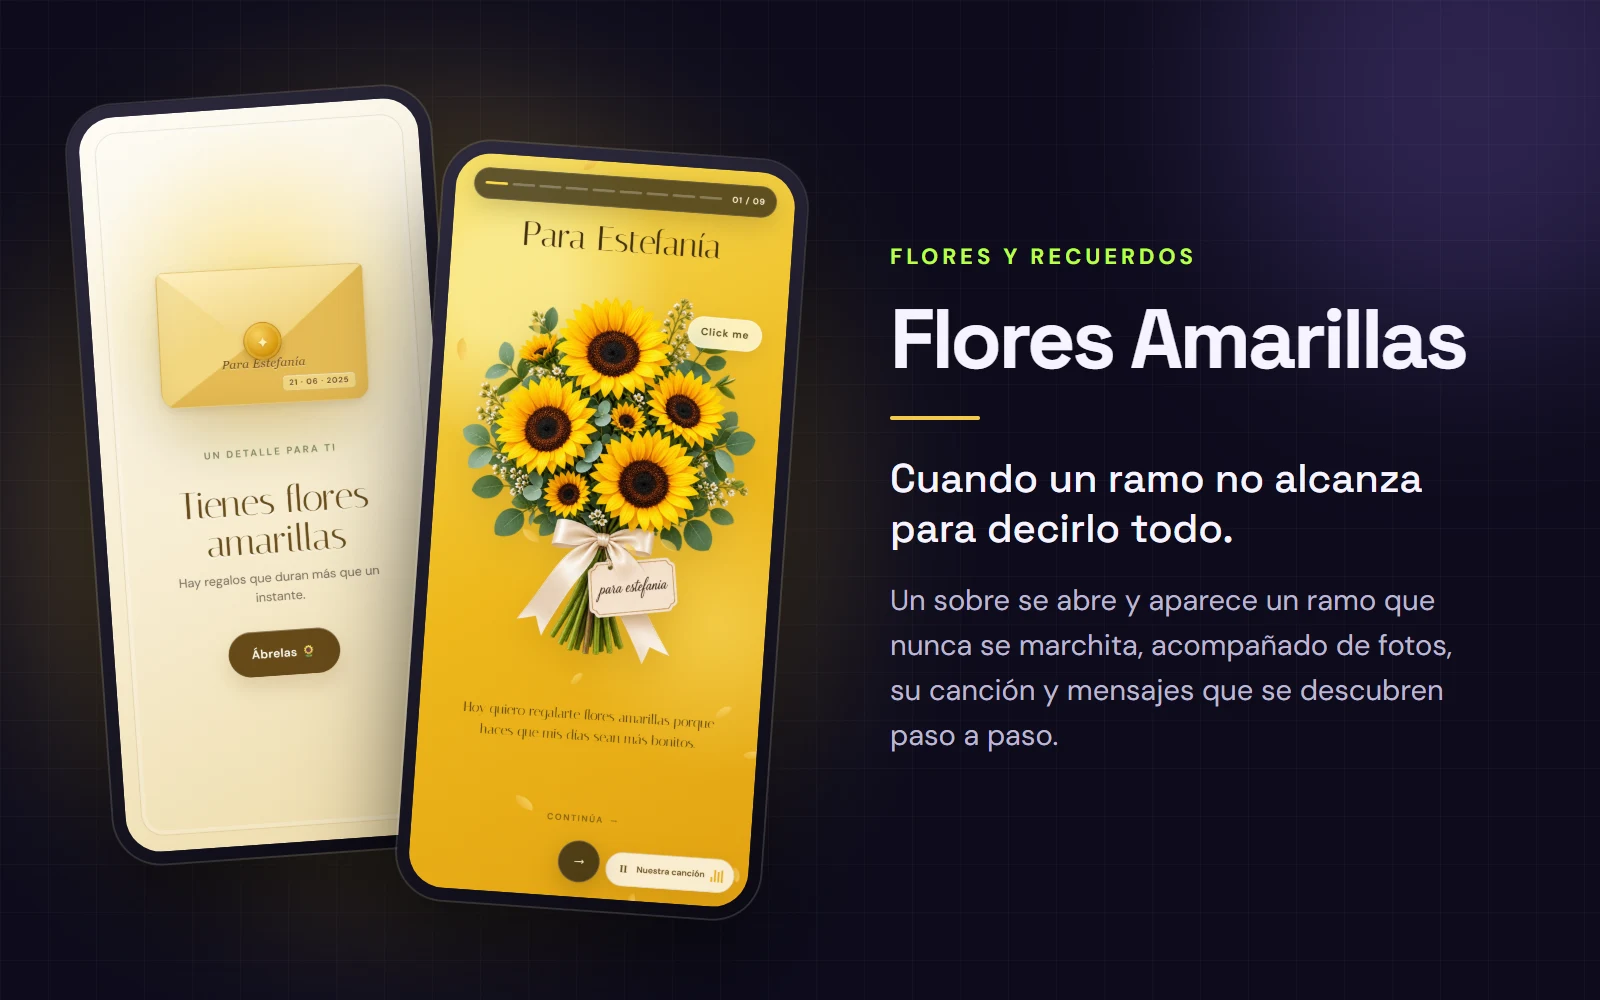
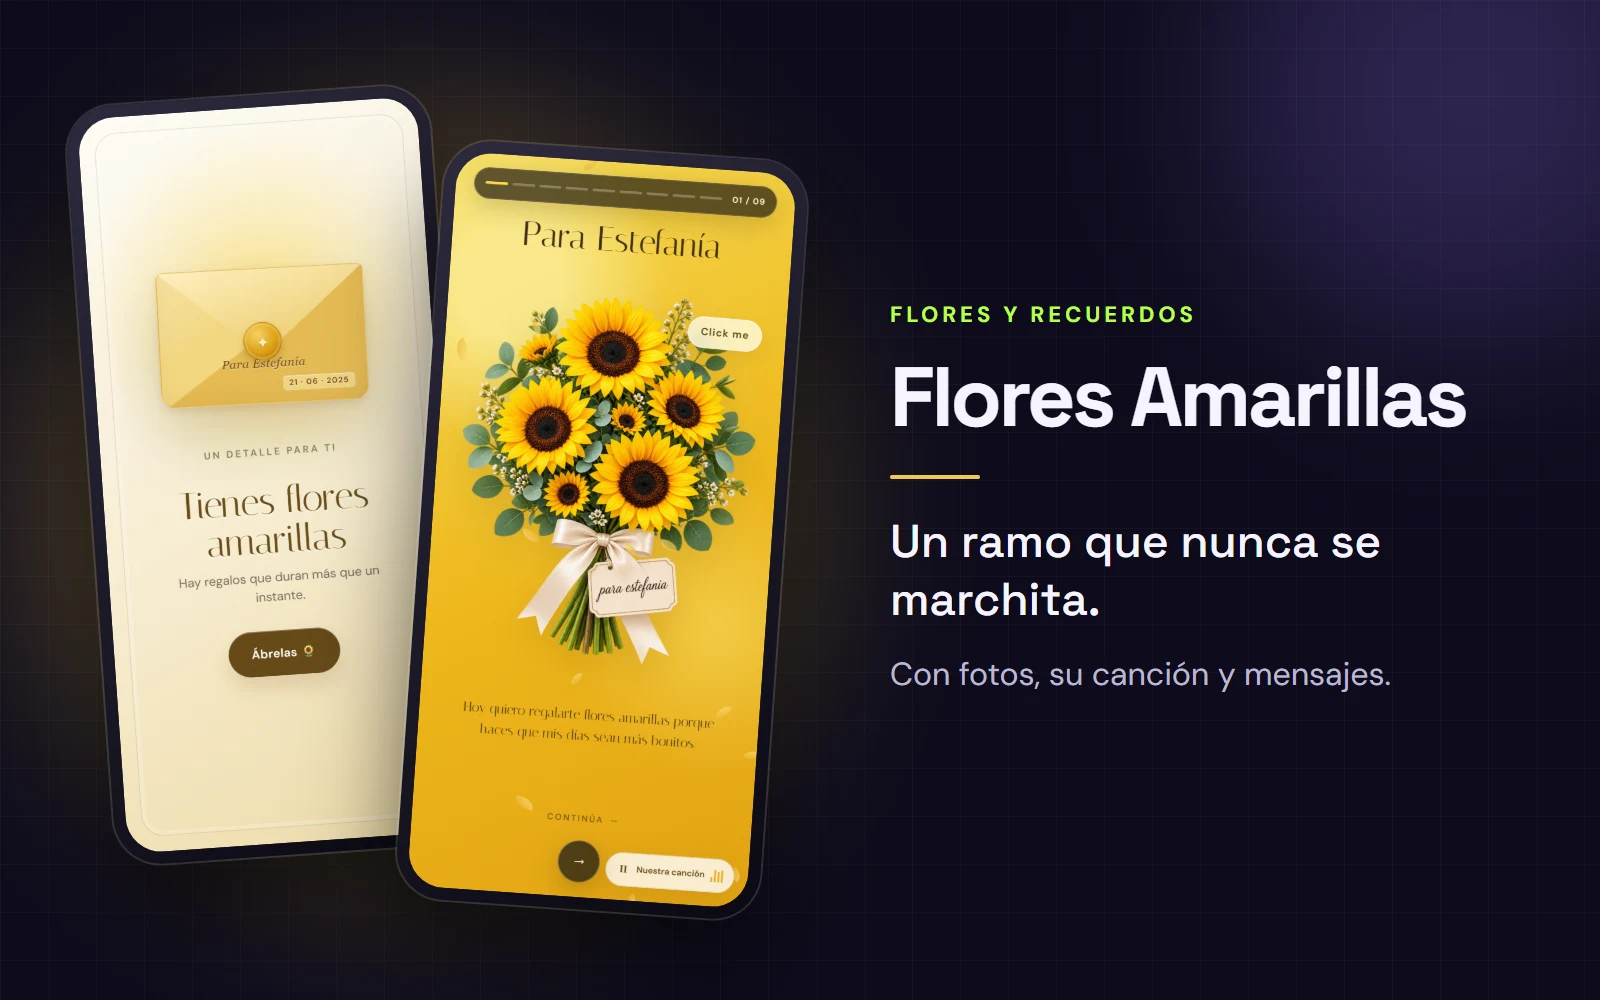
Shorten the text in each experience showcase image

Changed region(s): [[0.5312, 0.248, 0.9375, 0.434], [0.5312, 0.589, 0.9062, 0.744], [0.5312, 0.465, 0.9062, 0.558]]

diff --git a/experiencias-digitales.html b/experiencias-digitales.html
@@ -36,8 +36,8 @@
           <h3 class="experience-feature-title" id="project-flores-amarillas">Flores Amarillas</h3>
           <a class="experience-feature-shot" href="flores-amarillas-estefania/" target="_blank" rel="noopener noreferrer" aria-label="Ver experiencia Flores Amarillas (abre en una pestaña nueva)">
             <picture>
-              <source media="(max-width: 639px)" srcset="img/experiencia-flores-amarillas-movil.webp" width="1080" height="1500">
-              <img src="img/experiencia-flores-amarillas.webp" alt="Flores Amarillas: dos pantallas en celular, el sobre de bienvenida para Estefanía y el ramo de girasoles. Cuando un ramo no alcanza para decirlo todo: un sobre se abre y aparece un ramo que nunca se marchita, con fotos, su canción y mensajes que se descubren paso a paso." width="1600" height="1000" loading="lazy" decoding="async">
+              <source media="(max-width: 639px)" srcset="img/experiencia-flores-amarillas-movil.webp?v=2" width="1080" height="1500">
+              <img src="img/experiencia-flores-amarillas.webp?v=2" alt="Flores Amarillas: dos pantallas en celular, el sobre de bienvenida para Estefanía y el ramo de girasoles. Un ramo que nunca se marchita, con fotos, su canción y mensajes." width="1600" height="1000" loading="lazy" decoding="async">
             </picture>
           </a>
           <div class="experience-feature-actions">
@@ -49,8 +49,8 @@
           <h3 class="experience-feature-title" id="project-flores-para-ti">Flores para ti</h3>
           <a class="experience-feature-shot" href="flores-para-ti/" target="_blank" rel="noopener noreferrer" aria-label="Ver experiencia Flores para ti (abre en una pestaña nueva)">
             <picture>
-              <source media="(max-width: 639px)" srcset="img/experiencia-flores-para-ti-movil.webp" width="1080" height="1500">
-              <img src="img/experiencia-flores-para-ti.webp" alt="Flores para ti: dos pantallas en celular, el jardín de sobres y una carta abierta. Para quien tiene mucho que decir y no sabe por dónde empezar: cada sobre guarda una carta distinta, con fecha y audio, para leerla con calma las veces que quiera." width="1600" height="1000" loading="lazy" decoding="async">
+              <source media="(max-width: 639px)" srcset="img/experiencia-flores-para-ti-movil.webp?v=2" width="1080" height="1500">
+              <img src="img/experiencia-flores-para-ti.webp?v=2" alt="Flores para ti: dos pantallas en celular, el jardín de sobres y una carta abierta. Todo lo que quieres decirle: cada sobre guarda una carta con audio." width="1600" height="1000" loading="lazy" decoding="async">
             </picture>
           </a>
           <div class="experience-feature-actions">
@@ -62,8 +62,8 @@
           <h3 class="experience-feature-title" id="project-hot-wheels">Hot Wheels</h3>
           <a class="experience-feature-shot" href="hot-wheels/" target="_blank" rel="noopener noreferrer" aria-label="Ver experiencia Hot Wheels (abre en una pestaña nueva)">
             <picture>
-              <source media="(max-width: 639px)" srcset="img/experiencia-hot-wheels-movil.webp" width="1080" height="1500">
-              <img src="img/experiencia-hot-wheels.webp" alt="Hot Wheels: dos pantallas en celular, la bienvenida de la entrega especial y el mapa para elegir la ruta. Un regalo que se juega: los recuerdos se vuelven una ruta con paradas, minijuegos y una carrera." width="1600" height="1000" loading="lazy" decoding="async">
+              <source media="(max-width: 639px)" srcset="img/experiencia-hot-wheels-movil.webp?v=2" width="1080" height="1500">
+              <img src="img/experiencia-hot-wheels.webp?v=2" alt="Hot Wheels: dos pantallas en celular, la bienvenida de la entrega especial y el mapa para elegir la ruta. Un regalo que se juega: recuerdos en una ruta con minijuegos y carrera." width="1600" height="1000" loading="lazy" decoding="async">
             </picture>
           </a>
           <div class="experience-feature-actions">
@@ -75,8 +75,8 @@
           <h3 class="experience-feature-title" id="project-dia-del-novio">Día del Novio</h3>
           <a class="experience-feature-shot" href="https://dia-del-novio.rotfstudio.com/bienvenida/dist/" target="_blank" rel="noopener noreferrer" aria-label="Ver experiencia Día del Novio (abre en una pestaña nueva)">
             <picture>
-              <source media="(max-width: 639px)" srcset="img/experiencia-dia-del-novio-movil.webp" width="1080" height="1500">
-              <img src="img/experiencia-dia-del-novio.webp" alt="Día del Novio: dos pantallas en celular, la bienvenida con foto de la pareja y el capítulo de la fecha en que todo empezó. Su historia contada capítulo a capítulo, con fotos y detalles que se revelan al tocar." width="1600" height="1000" loading="lazy" decoding="async">
+              <source media="(max-width: 639px)" srcset="img/experiencia-dia-del-novio-movil.webp?v=2" width="1080" height="1500">
+              <img src="img/experiencia-dia-del-novio.webp?v=2" alt="Día del Novio: dos pantallas en celular, la bienvenida con foto de la pareja y el capítulo de la fecha en que todo empezó. Su historia, capítulo a capítulo, con fotos y sorpresas que se revelan al tocar." width="1600" height="1000" loading="lazy" decoding="async">
             </picture>
           </a>
           <div class="experience-feature-actions">
